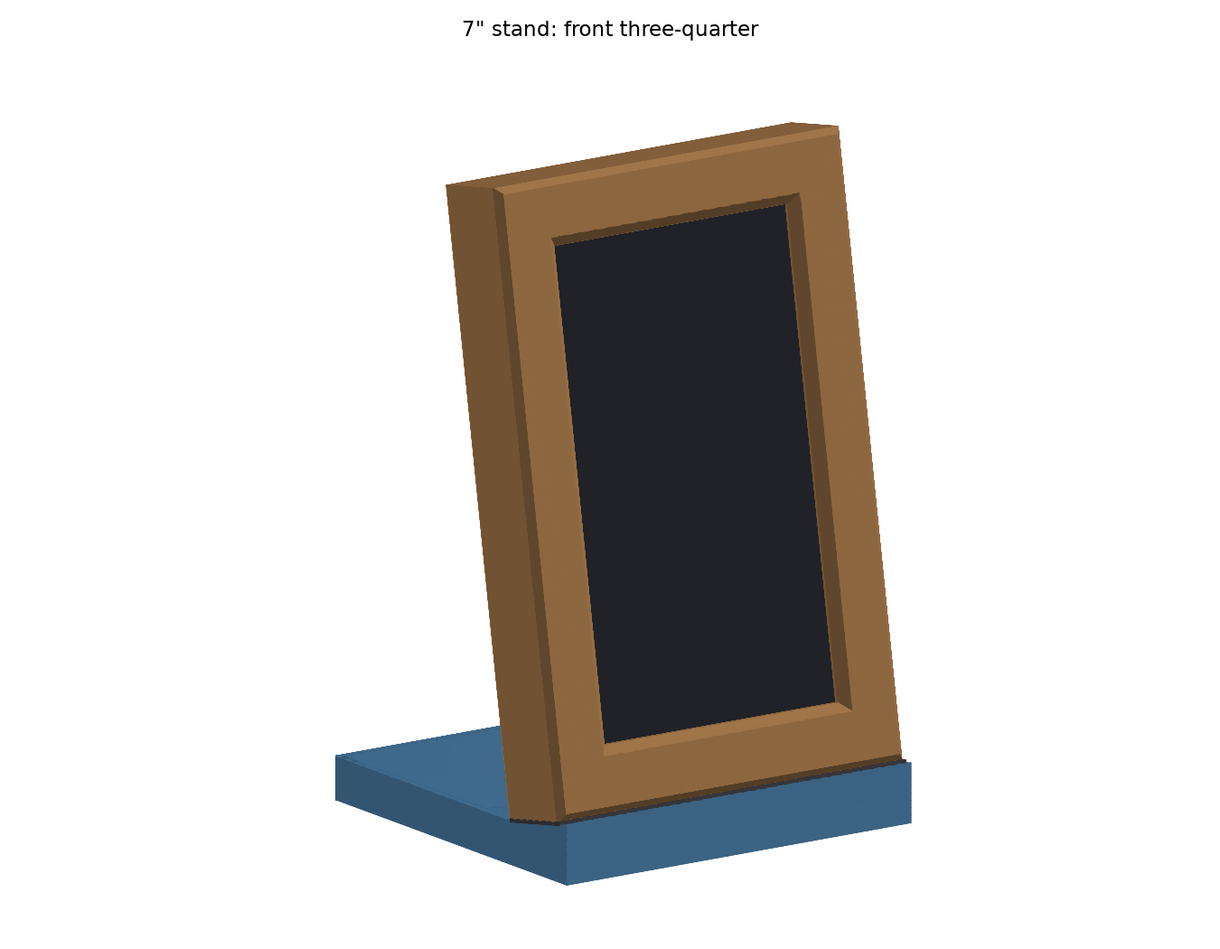
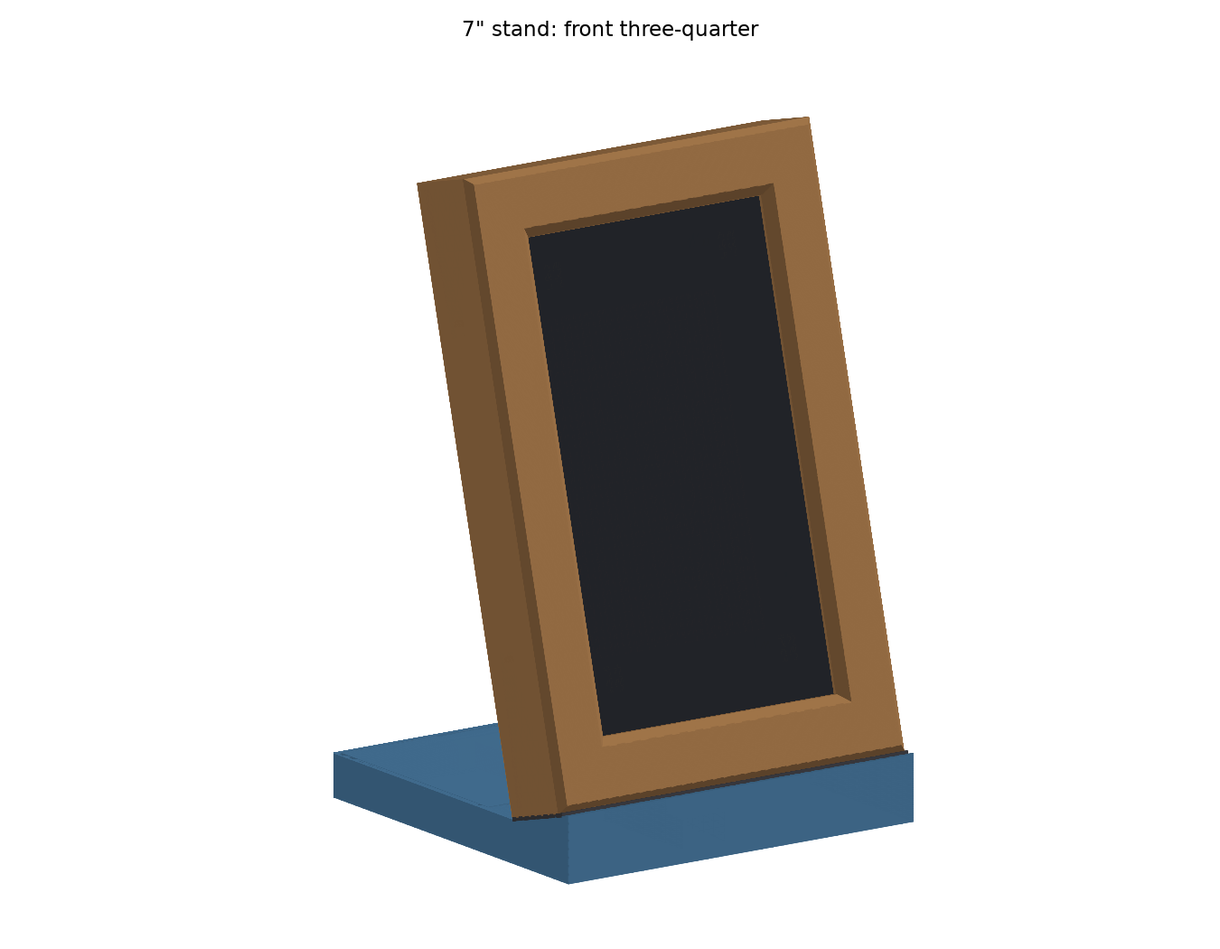
feat: COM-417 espframe stand: wider plug path, click-in lid, 15° lean
- Widen the foot's cable tunnel 12 -> 16 mm (new TUNNEL_W; it was narrower than the 12.5 mm plug), plus the deck slot, plate notch and frame notch by 2 mm, with a plug pass-through check
- Add printed lid detents (LID_DETENT_H/N/L) that click into V-grooves in the rabbet walls, with a detent fit check
- Lean the screen at 15 deg (was 10) on a 20 mm ledge and 120 mm foot; MIN_TIP_FORCE_N 4.3 as accepted for the shorter foot
- Update the README, 10-inch notes and preview renders

diff --git a/apps/espframe/hardware/stand/stand/params.py b/apps/espframe/hardware/stand/stand/params.py
@@ -102,15 +102,17 @@ DOVE_TIP_CLEAR = 0.4              # DESIGN: rail tip to groove floor; the groove
 DOVE_GROOVE_L = SPINE_TOP_Y - 2.0  # DESIGN: open at the bottom edge, closed by 2 mm of spine at the top (a groove past the spine cut through the 3 mm plate)
 DOVE_RAIL_L = DOVE_GROOVE_L - 2.0   # DESIGN: 2 mm short of the groove end
 LOCK_Y = 18.0                     # DESIGN: optional foot-lock screw height
-PLATE_NOTCH = (14.0, 6.0)         # DESIGN: cable notch in the plate bottom edge above the plug bend (w, h)
+PLATE_NOTCH = (16.0, 6.0)         # DESIGN: cable notch in the plate bottom edge above the plug bend (w, h); 14 felt tight (COM-417)
 
 # --- Foot (world frame) -------------------------------------------------------------
-TILT_DEG = 10.0                   # DESIGN
+TILT_DEG = 15.0                   # DESIGN (COM-417): a desktop picture frame's usual lean; was 10
 S = math.sin(math.radians(TILT_DEG))
 C = math.cos(math.radians(TILT_DEG))
-LEDGE_H = 18.0                    # DESIGN: ledge seat height at the frame's front face (world Z)
+LEDGE_H = 20.0                    # DESIGN: ledge seat height at the frame's front face (world Z); 18 at 10°, raised
+                                  #   with the 15° lean so the deck (and lid) stays clear of the cable coil
 FOOT_W = 130.0                    # DESIGN
-FOOT_D = 118.0                    # DESIGN: glass corner to rear wall; shortest that still meets MIN_TIP_FORCE_N without extra ballast
+FOOT_D = 120.0                    # DESIGN (user, COM-417): glass corner to rear wall; kept short at 15° and accepted
+                                  #   with a lower MIN_TIP_FORCE_N rather than deepened (about 126 would hold 4.5 N)
 WALL = 3.0                        # DESIGN
 FLOOR = 3.0                       # DESIGN
 DECK_SKIN = 1.5                   # DESIGN: material over the cavity behind the plate
@@ -126,6 +128,13 @@ LOCK_POST_LEFT = 2.0              # DESIGN: post material under the counterbore
 LID_T = 1.6                       # DESIGN
 LID_RABBET = 1.5                  # DESIGN: step in the tray wall the lid sits on
 LID_CLEAR = 0.15                  # DESIGN: per side
+# Detents: short ridges on the lid's long (front and rear) edges click into V-grooves in the
+# rabbet walls; the thin rear wall flexes for the snap. Prise the lid out at the lift slot.
+LID_DETENT_H = 0.3                # DESIGN: ridge height off the lid edge (snap interference = H - LID_CLEAR); tune after printing
+LID_DETENT_N = 2                  # DESIGN: ridges per long edge
+LID_DETENT_L = 8.0                # DESIGN: ridge length along the edge
+LID_DETENT_GROOVE_CLEAR = 0.1     # DESIGN: groove oversize so a seated ridge doesn't bind
+MIN_DETENT_WALL = 1.0             # DESIGN: check limit, rear wall left behind a groove
 
 # Solid front under the ledge (no ballast: the user's printed stand is sturdy without it);
 # the cable tunnel runs through it to the tray.
@@ -140,7 +149,9 @@ PLUG_T = 6.5                      # EST
 CABLE_LEN = 300.0                 # SOURCED
 CABLE_D = 4.5                     # EST
 BEND_R = 4 * CABLE_D              # 18, EST: static minimum (4 × D)
-SLOT_W = 14.0                     # DESIGN: plug must pass through when assembling
+SLOT_W = 16.0                     # DESIGN: plug must pass through when assembling; 14 felt tight (COM-417)
+TUNNEL_W = 16.0                   # DESIGN: cable tunnel from the tray to the deck slot; the plug passes it too (was 12, under PLUG_W)
+MIN_PLUG_PASS = 1.0               # DESIGN: check limit, plug clearance per side through the tunnel and deck slot
 SLOT_T = (PORT_DEPTH - 4.0, PORT_DEPTH + 4 * CABLE_D + CABLE_D / 2 + 1.5)   # DESIGN: covers the whole plug bend through the deck
 COIL_W = 32.0                     # DESIGN: free cable coil in the tray, stadium (centreline R 18.25 ≥ BEND_R); no post
 COIL_Y = 62.0                     # DESIGN: coil centre (horizontal depth)
@@ -169,7 +180,9 @@ RECEPTACLE_TRIAL_T = [1.0, 1.2, 1.4]   # DESIGN: test plates bracketing JACK_REC
 DOVE_TRIAL_CLEARS = [0.02, 0.03, 0.04]                    # DESIGN: round 3, brackets SLIDE_CLEAR (round 2: 0.05 closest, a touch loose)
 
 # Required results.
-MIN_TIP_FORCE_N = 4.5             # MEASURED (user): the printed stand felt sturdy without ballast; was 6.5 with steel (rev A design: 3.2)
+MIN_TIP_FORCE_N = 4.3             # DESIGN (user, COM-417): accepted for the 15° lean on the 120 mm foot (4.32 N), in exchange
+                                  #   for a shorter foot. The 10° stand, 118 deep, was 4.5 N and the printed one felt very stable
+                                  #   without ballast; was 6.5 with steel (rev A design: 3.2)
 
 # --- Picture frame (style B, classic bevel, 21 mm face, wood-look) -------------------
 FRAME_DENSITY = 1.18e-3           # g/mm³, EST: wood-fill PLA (1.15–1.2); PolyWood is lighter
@@ -206,6 +219,6 @@ FRAME_BOSS_D = 7.0                # DESIGN
 FRAME_BOSS_L = 8.0                # DESIGN: boss length towards the glass from the plate front face
 FRAME_INSERT_DEPTH = INSERT_M3x4_L + 2.0   # DESIGN: M3 × 8 through a 3 mm tab reaches 5
 FRAME_SCREW_L = 8.0               # DESIGN
-FRAME_NOTCH_W = 15.0              # DESIGN: cable notch through the frame's bottom rail
+FRAME_NOTCH_W = 17.0              # DESIGN: cable notch through the frame's bottom rail; 15 felt tight (COM-417)
 
 MIN_DOVE_ENGAGE = 30.0            # DESIGN: check limit

diff --git a/apps/espframe/hardware/stand/stand/checks.py b/apps/espframe/hardware/stand/stand/checks.py
@@ -7,7 +7,7 @@ from build123d import Vertex
 from . import params as p
 from . import reference as ref
 from .cable import build_path
-from .foot import build_rail
+from .foot import build_rail, layout, lid_detents, lift_slot_x
 from .frames import SCREEN_TO_WORLD, screen_point
 
 
@@ -90,7 +90,34 @@ def run(parts: dict) -> list:
               + f"; CG {cg_y:.1f} mm behind the glass corner, {cg_z:.1f} mm up; sideways tip at {side:.0f}°")
     add("Tip-over push at screen centre", force >= p.MIN_TIP_FORCE_N, detail)
 
-    # 8. Jack: flange against the web, receptacle through the window and flush outside,
+    # 8. Plug passes the tunnel and deck slot during assembly (pushed forward from the tray, then up).
+    L = layout()
+    t_side = (p.TUNNEL_W - p.PLUG_W) / 2
+    s_side = (p.SLOT_W - p.PLUG_W) / 2
+    t_head = (L.z_cavity_top - p.FLOOR) - p.PLUG_T
+    add("Plug passes the tunnel and deck slot",
+        min(t_side, s_side) >= p.MIN_PLUG_PASS and t_head >= 2 * p.MIN_PLUG_PASS,
+        f"{p.PLUG_W:g} × {p.PLUG_T:g} plug: {t_side:.2f} mm per side in the {p.TUNNEL_W:g} mm tunnel, "
+        f"{s_side:.2f} in the {p.SLOT_W:g} mm slot (need ≥ {p.MIN_PLUG_PASS:g}); {t_head:.1f} mm of tunnel height to spare")
+
+    # 9. Lid detents: seated ridges sit in their grooves, the snap has interference, the grooves
+    # leave enough rear wall, and no ridge runs into the lift slot. The front rim is the solid
+    # front zone, so only the rear wall flexes: hooked in front edge first, it flexes by `snap`;
+    # pressed in flat, the lid slides back off the front ridges and the rear wall takes both.
+    snap = p.LID_DETENT_H - p.LID_CLEAR
+    groove = p.LID_DETENT_H + p.LID_DETENT_GROOVE_CLEAR - p.LID_CLEAR
+    wall_left = p.WALL - p.LID_RABBET - groove
+    sx0, sx1 = lift_slot_x()
+    ridges = lid_detents()
+    slot_free = all(b <= sx0 or a >= sx1 for a, b, _, out in ridges if out < 0)
+    l_over = (lid & foot).volume
+    add("Lid detents", l_over < 1e-3 and snap > 0 and wall_left >= p.MIN_DETENT_WALL and slot_free,
+        f"{len(ridges)} ridges {p.LID_DETENT_H:g} mm high snap past {snap:.2f} mm of interference into "
+        f"{groove:.2f} mm grooves (rear wall flexes {snap:.2f} mm with the front edge hooked in first, "
+        f"{2 * snap:.2f} pressed in flat); {wall_left:.2f} mm of rear wall behind them (need ≥ {p.MIN_DETENT_WALL:g}); "
+        f"seated overlap {l_over:.4f} mm³; lift slot {'clear' if slot_free else 'BLOCKED'}")
+
+    # 10. Jack: flange against the web, receptacle through the window and flush outside,
     # its own screws from outside clear of the body.
     jack = ref.jack()
     j_over = (jack & foot).volume
@@ -109,7 +136,7 @@ def run(parts: dict) -> list:
         f"screws at {p.JACK_SCREW_PITCH:g} mm pitch pass {body_gap:.2f} mm clear of the body; the heads leave "
         f"{heads_gap:.1f} mm between them, so a plug moulding wider than that won't seat fully (test your chargers)")
 
-    # 9. Foot-lock screw (optional, M3 × 12) reaches the M3 × 4 insert in the plate spine.
+    # 11. Foot-lock screw (optional, M3 × 12) reaches the M3 × 4 insert in the plate spine.
     to_floor = p.LOCK_POST_LEFT + p.DOVE_DEPTH + p.POST_FACE_CLEAR
     spine_left = (p.D_PLATE_BACK - p.DOVE_DEPTH) - (p.D_PLATE_FRONT - p.SPINE_T)
     lock_engage = 12.0 - to_floor
@@ -117,7 +144,7 @@ def run(parts: dict) -> list:
         f"M3 × 12 from the counterbore: {lock_engage:.1f} mm past the groove floor into a {p.INSERT_M3x4_L:.0f} mm insert "
         f"(tip {lock_engage - spine_left:.1f} mm proud of the spine, clear of the board)")
 
-    # 10. Picture frame.
+    # 12. Picture frame.
     panel = ref.panel()
     aa = ref.active_area_prism()
     reveal = min(p.AA_X[0] - p.OPEN_X[0], p.OPEN_X[1] - p.AA_X[1], p.AA_Y[0] - p.OPEN_Y[0], p.OPEN_Y[1] - p.AA_Y[1])
@@ -162,7 +189,7 @@ def run(parts: dict) -> list:
     add("Dovetail engagement", engage >= p.MIN_DOVE_ENGAGE,
         f"{engage:.1f} mm of the {p.DOVE_RAIL_L:.0f} mm rail inside the groove (need ≥ {p.MIN_DOVE_ENGAGE:.0f})")
 
-    # 11. Every printed part fits the P1S bed in its print pose.
+    # 13. Every printed part fits the P1S bed in its print pose.
     for name, solid in parts["print"].items():
         bb = solid.bounding_box()
         size = (bb.max - bb.min)

diff --git a/apps/espframe/hardware/stand/stand/foot.py b/apps/espframe/hardware/stand/stand/foot.py
@@ -1,5 +1,5 @@
 """Foot: felted ledge, dovetail post, cable tunnel and open tray for a free cable coil,
-a solid front, the panel jack behind a thin web in the rear wall, and the tray lid."""
+a solid front, the panel jack behind a thin web in the rear wall, and the click-in tray lid."""
 
 from dataclasses import dataclass
 
@@ -61,9 +61,13 @@ def build_foot() -> Part:
     rabbet = box(L.in_x0 - p.LID_RABBET, L.in_x1 + p.LID_RABBET, L.front_zone_end - p.LID_RABBET,
                  p.FOOT_D - p.WALL + p.LID_RABBET, L.z_cavity_top, L.z_deck + 1)
     foot -= tray + rabbet
+    # V-grooves in the rabbet's front and rear walls for the lid's detent ridges.
+    for x0, x1, y_edge, out in lid_detents():
+        g = p.LID_DETENT_GROOVE_CLEAR
+        foot -= _detent_prism(x0 - g, x1 + g, y_edge, out, p.LID_DETENT_H + g)
 
     # Cable tunnel under the wedge, from the deck slot back into the tray.
-    foot -= box(p.PORT_X - 6, p.PORT_X + 6, L.y_front + p.WALL + 2, L.front_zone_end + 1,
+    foot -= box(p.PORT_X - p.TUNNEL_W / 2, p.PORT_X + p.TUNNEL_W / 2, L.y_front + p.WALL + 2, L.front_zone_end + 1,
                 p.FLOOR, L.z_cavity_top)
 
     # Deck slot through the ledge, big enough for the plug to pass during assembly,
@@ -118,15 +122,51 @@ def build_rail(clear: float = p.SLIDE_CLEAR) -> Part:
                           d_root, d_tip, -p.SEAT, p.DOVE_RAIL_L - p.SEAT)
 
 
-def build_lid() -> Part:
-    """Flat lid for the tray opening. Printed flat."""
+def lid_outline():
+    """(x0, x1, y0, y1) of the lid, LID_CLEAR inside the rabbet on every side."""
     L = layout()
     c = p.LID_CLEAR
-    lid = box(L.in_x0 - p.LID_RABBET + c, L.in_x1 + p.LID_RABBET - c,
-              L.front_zone_end - p.LID_RABBET + c, p.FOOT_D - p.WALL + p.LID_RABBET - c,
-              L.z_cavity_top, L.z_deck)
+    return (L.in_x0 - p.LID_RABBET + c, L.in_x1 + p.LID_RABBET - c,
+            L.front_zone_end - p.LID_RABBET + c, p.FOOT_D - p.WALL + p.LID_RABBET - c)
+
+
+def lift_slot_x():
+    """(x0, x1) of the lid's lift slot, at its front-right corner."""
+    L = layout()
+    return L.in_x1 - 14, L.in_x1 - 4
+
+
+def lid_detents():
+    """(x0, x1, y_edge, out) per detent ridge: LID_DETENT_N evenly spaced along each long
+    (front and rear) lid edge; `out` is +1 where the ridge points to +Y, -1 to -Y."""
+    x0, x1, y0, y1 = lid_outline()
+    pitch = (x1 - x0) / p.LID_DETENT_N
+    spans = [(x0 + (i + 0.5) * pitch - p.LID_DETENT_L / 2, x0 + (i + 0.5) * pitch + p.LID_DETENT_L / 2)
+             for i in range(p.LID_DETENT_N)]
+    return [(a, b, y, out) for y, out in ((y0, -1), (y1, 1)) for a, b in spans]
+
+
+def _detent_prism(x0, x1, y_edge, out, h):
+    """Triangular ridge across X: base on the lid edge over the lid's full thickness, apex h out.
+    The shallow flanks ramp the snap in and out, and print without supports."""
+    L = layout()
+    zm, half = (L.z_cavity_top + L.z_deck) / 2, p.LID_T / 2
+    base = y_edge - out * 0.01
+    pts = [(base, zm - half), (y_edge + out * h, zm), (base, zm + half)]
+    # side_profile extrudes along the face normal, so keep the winding anticlockwise (+X).
+    return side_profile(pts if out > 0 else pts[::-1], x0, x1)
+
+
+def build_lid() -> Part:
+    """Flat lid for the tray opening, with detent ridges on its long edges. Printed flat."""
+    L = layout()
+    x0, x1, y0, y1 = lid_outline()
+    lid = box(x0, x1, y0, y1, L.z_cavity_top, L.z_deck)
+    for a, b, y_edge, out in lid_detents():
+        lid += _detent_prism(a, b, y_edge, out, p.LID_DETENT_H)
     # Lift slot so it can be prised out.
-    lid -= box(L.in_x1 - 14, L.in_x1 - 4, L.front_zone_end + 1, L.front_zone_end + 5, L.z_cavity_top - 1, L.z_deck + 1)
+    sx0, sx1 = lift_slot_x()
+    lid -= box(sx0, sx1, L.front_zone_end + 1, L.front_zone_end + 5, L.z_cavity_top - 1, L.z_deck + 1)
     return lid
 
 

diff --git a/apps/espframe/hardware/stand/README.md b/apps/espframe/hardware/stand/README.md
@@ -19,14 +19,22 @@ A 3D-printable portrait desk stand for the 7" espframe (Waveshare ESP32-S3-Touch
   - Four printed risers (Ø9 × 4.5) sit on the spacers, lifting the plate to 14.5 mm above the panel back. That clears the tallest part, the 12 mm UART2 JST, by 2 mm (designed to 12.5).
   - It fills the frame out to its walls (0.3 mm clear), so the back is closed all round, and carries the frame on four screws near its side edges.
   - Two rows of vent slots low down and two near the top (4 slots of 20 × 3 mm each) let air through, since the back is otherwise closed.
-- **Foot (PETG).** The plate slides down onto a dovetail rail on the foot's post, and the frame's bottom rail settles on the felted ledge (18 mm high). The screen leans back at 10°.
-  - No ballast: the printed stand was sturdy without it, and the front under the ledge is solid. The foot is 118 mm deep.
-  - The tray is open on top and closed with a drop-in lid.
+- **Foot (PETG).** The plate slides down onto a dovetail rail on the foot's post, and the frame's bottom rail settles on the felted ledge (20 mm high). The screen leans back at 15°, like a desktop picture frame (10° before COM-417).
+  - No ballast: the printed stand was sturdy without it, and the front under the ledge is solid. The foot is 120 mm deep.
+  - The tray is open on top and closed with a lid that clicks in: two small ridges on each long edge snap into grooves in the tray's rim. Prise it out at the slot in its front-right corner.
 - **Power and data.** A Poyiccot USB 3.1 panel-mount extension (straight, 30 cm) passes every pin through:
   - Its plug goes into the board's UART (CH343) USB-C port.
   - The lead drops through notches in the plate and frame and through the deck slot, bends at R18, lies as one loose coil in the tray, and ends at the panel jack in the rear wall.
   - Any USB-C charger works, and you can flash or read logs through the stand without taking it apart.
 - **Orientation.** The board's USB edge goes down: the landscape panel turned 90° counter-clockwise, seen from the front. Pick the matching rotation in the espframe settings (COM-362).
+
+## Changes in COM-417
+
+- **15° lean** (was 10°). The ledge is 2 mm higher (20 mm) so the deck and lid stay clear of the cable coil, and the foot is 120 mm deep (was 118).
+- **Wider plug path.** The cable tunnel through the foot was 12 mm wide, narrower than the 12.5 mm plug. The tunnel and the deck slot are now 16 mm wide, and the cable notches in the plate and frame are 16 and 17 mm.
+- **The lid clicks in** on printed detents instead of just resting in its rabbet.
+
+**What to reprint:** the foot and lid. The plate and frame only gained wider cable notches (+2 mm), so reprinting them is optional: keep yours if the lead already drops through them easily.
 
 ## Download the print files
 
@@ -60,10 +68,12 @@ Every dimension is a named constant in [`stand/params.py`](stand/params.py), tag
 | Dovetail engagement | 31.8 mm of the 35.5 mm rail (need ≥ 30; the frame raises the screen 3.7 mm above the ledge) |
 | Plug clear of the plate, frame and foot | no overlap |
 | Cable bend radius | tightest 18.0 mm (limit R18, est.) |
-| Cable length | 265 mm path of 300 mm (35 mm slack) |
+| Cable length | 267 mm path of 300 mm (33 mm slack) |
 | Cable clearance along its length | ≥ cable radius everywhere |
-| Plug bend fits above the tray floor | 5.6 mm of straight drop to spare (rev D without the frame had 1.9) |
-| Tip-over: push at the screen centre to tip it back | **4.5 N** (need ≥ 4.5, set from the printed stand feeling sturdy without ballast; rev A design was 3.2 N) at 118 mm deep. Sideways tip at 34°. Weight stuck under the front raises it (about +0.8 N per 100 g). |
+| Plug bend fits above the tray floor | 4.9 mm of straight drop to spare (rev D without the frame had 1.9) |
+| Plug passes the tunnel and deck slot | 12.5 × 6.5 plug: 1.75 mm per side in the 16 mm tunnel and the 16 mm slot (need ≥ 1), 3.0 mm of tunnel height to spare |
+| Lid detents | 4 ridges 0.3 mm high snap past 0.15 mm of interference into 0.25 mm grooves, leaving 1.25 mm of rear wall. Only the rear wall flexes: 0.15 mm with the front edge hooked in first, 0.30 if the lid is pressed in flat; no overlap once seated; lift slot clear |
+| Tip-over: push at the screen centre to tip it back | **4.3 N** (need ≥ 4.3) at 15° and 120 mm deep, accepted in exchange for a shorter foot when the lean went to 15°. The 10° stand, 118 mm deep, was 4.5 N, and that print felt sturdy without ballast; rev A design was 3.2 N. A foot about 126 mm deep would hold 4.5 N at 15°. Sideways tip at 34°. Weight stuck under the front raises it (about +0.8 N per 100 g). |
 | Frame opening clear of the picture | 0.75 mm reveal on every side (need ≥ 0.5) |
 | Frame never touches the glass | closest 0.71 mm (need ≥ 0.5) |
 | Glass edge gap L / R / T / B | 8.75 / 6.71 / 0.71 / 0.71 mm |
@@ -90,7 +100,7 @@ Structural parts are PETG on the stock Bambu P1S profile with the 0.4 mm nozzle.
 | `coupon-receptacle` | Flat as exported | 100% infill, 0.2 mm layers. Three thin plates (1–3 notches = 1.0 / 1.2 / 1.4 mm), each a copy of the rear-wall web: receptacle window and two holes at the measured 16.5 mm flange pitch. Screw one onto the flange with the jack's own screws: the screws threading straight in confirms the pitch, and the plate the metal receptacle ends flush with sets `JACK_RECEPTACLE_PROUD` (plate 2, 1.2 mm). Plug your chargers into it to check the screw heads don't stop them seating. |
 | `plate` | As exported: back face on the bed, risers and spine up. The dovetail groove's undercut faces the bed and prints without supports. | 4 walls, 40% infill (the risers end up solid), 0.2 mm layers |
 | `foot` | As exported: upright on its base | 4 walls, 25% infill, no supports. |
-| `lid` | Flat | 3 walls |
+| `lid` | Flat | 3 walls. If the detents are too stiff or too loose, tune `LID_DETENT_H` (0.3 mm). |
 | `frame` | As exported: face down on the bed, walls and bosses up. The bevel and outer chamfer are 45° overhangs: no supports. | Wood-look PLA, 3 walls, 20% infill. See the wood-look notes. |
 
 ### Wood-look frame
@@ -127,12 +137,12 @@ No heat-set kit? Buy an M3 assortment. Inserts go in with a soldering iron, pres
    - If you're using the foot lock, one M3 × 4 insert goes into the plate spine from the groove floor.
 2. **Felt.** Stick the 6 mm felt strip on the back of the frame face, on the band that covers the black bezel. Keep its inner edge at least 1 mm outside the opening (`FELT_INSET`) so it stays hidden at an angle. Stick the wide strip on the foot's ledge.
 3. **Jack.** With the lid off, set the jack inside the tray against the rear wall, receptacle outwards, so the flange drops into its recess and the receptacle pokes through the window. Fit the jack's own two screws from outside through the wall into the flange's threaded holes.
-4. **Cable.** Lay the spare cable as one loose coil in the tray beside the jack, no tighter than about 40 mm across. Then run it forward through the tunnel and push the plug up through the deck slot (14 × 8 mm; the 12.5 × 6.5 plug fits through).
+4. **Cable.** Lay the spare cable as one loose coil in the tray beside the jack, no tighter than about 40 mm across. Then run it forward through the tunnel and push the plug up through the deck slot. Both are 16 mm wide, so the 12.5 × 6.5 plug passes with 1.75 mm each side.
 5. **Plate.** Screw the plate to the four brass spacers with M3 × 12 + washers. The spine and dovetail groove go to the bottom, near the USB edge.
 6. **Frame.** Lay the screen face down on a soft cloth and lower the frame over it. Fix it with four M3 × 8 + washers from behind, through the plate's edge holes into the frame inserts. Check the even border, and that the felt only rests on the black bezel.
 7. **Plug and mount.** Plug the straight plug into the board's UART USB-C. Lower the plate's groove onto the foot's rail and let it slide down until the frame's bottom rail sits on the felted ledge. The plug's lead runs down through the notches in the plate and frame and into the deck slot.
    - Optionally, fit the foot-lock M3 × 12 from the back of the post.
-   - Drop the lid in.
+   - Fit the lid front edge first, so its front ridges drop into their grooves, then press the rear edge down until it clicks. Only the thin rear wall flexes, and a lid pressed in flat makes it flex twice as far.
 8. **Rotation.** In the espframe settings, pick the rotation (90 or 270) that shows the picture upright.
 
 ## Open items
@@ -141,7 +151,7 @@ These are estimated until the parts arrive. Each is a parameter in `stand/params
 
 - **Poyiccot jack:** measured and confirmed on test prints (flange 25 × 8 × 6.5, threaded M3 holes 16.5 apart, body 12.5 × 8, 34.5 long, receptacle 1.2 mm proud). Still to check: your chargers seat fully between the screw heads.
 - **Plug length:** confirm the 35 mm includes the 7.5 mm tip, so 27.5 mm sticks out.
-- **Cable:** confirm the diameter (4.5) and that it takes an R18 bend without levering on the board's port. There's 5.6 mm of drop to spare under the plug.
+- **Cable:** confirm the diameter (4.5) and that it takes an R18 bend without levering on the board's port. There's 4.9 mm of drop to spare under the plug.
 - **UART port:** confirm which of the two USB-C ports is the UART (CH343) one, and that the pair is on the left edge seen from the front.
 - **Weights:** weigh the printed parts, update `PRINT_FILL` / `FRAME_FILL`, and re-run to refresh the tip-over number.
 - **Frame fit:** print the frame and check that the border looks even on your panel. Tune `REVEAL` and `FRAME_FACE_W` if needed.

diff --git a/apps/espframe/hardware/stand/docs/10-inch.md b/apps/espframe/hardware/stand/docs/10-inch.md
@@ -105,10 +105,10 @@ The 7" was printed and tested piece by piece; its README has the details. These 
 **Design choices that proved out.**
 - **The back-plate fills the frame** out to its inner walls (0.3 mm clear). The back is closed with no gap round the plate, and the frame screws go through the plate's edges into bosses on the frame walls instead of through tabs.
 - **Vent slots:** with a closed back, there are two rows low (air in) and two high (air out), kept clear of the risers, spine and screws. On the 10", also keep them clear of the antenna region.
-- **No steel ballast:** the printed 7" was sturdy without it, so the pockets were dropped. The tip-over check now uses a **4.5 N** target (horizontal push at the screen centre) taken from that hands-on test.
+- **No steel ballast:** the printed 7" was sturdy without it, so the pockets were dropped. The tip-over check now uses a **4.5 N** target (horizontal push at the screen centre) taken from that hands-on test. COM-417 then moved the 7" to a 15° lean on a 120 mm foot and accepted 4.3 N for it.
   - Method: model each part's volume × density × fill, find the centre of mass, and check the push needed to tip it about the foot's rear edge. Then **hand-test the printed stand** and set the target from that.
-  - The model reads 4.6 N for the final 7".
-- **Shorter foot:** the 7" went from 128 to 118 mm deep. The spool post was replaced by a loose cable coil in the tray.
+  - The model read 4.5 N for the 10° 7" on its 118 mm foot, and reads 4.32 N at 15° on 120 mm (COM-417).
+- **Shorter foot:** the 7" went from 128 to 118 mm deep, then 120 with the 15° lean (COM-417). The spool post was replaced by a loose cable coil in the tray.
 - **Single dovetail:** two parallel sliding fits at 0.02 mm would bind. One locates itself, and the frame's bottom rail resting on the felted ledge takes the weight and stops it rocking.
 
 **Bugs to avoid.**
@@ -125,7 +125,7 @@ The 7" was printed and tested piece by piece; its README has the details. These 
   - fits: `SLIDE_CLEAR`, `DOVE_*` profile, `DOVE_TIP_CLEAR`, `POST_FACE_CLEAR`, `INSERT_*`, `M3_CLEAR_D`
   - jack: all `JACK_*` except `JACK_X`
   - plug and cable: `PLUG_*`, `CABLE_*`, `BEND_R`
-  - foot and lid: `WALL`, `FLOOR`, `LID_*`, `TILT_DEG` (10°)
+  - foot and lid: `WALL`, `FLOOR`, `LID_*` (incl. the `LID_DETENT_*` click-in fit), `TUNNEL_W`, `SLOT_W`, `TILT_DEG` (15° since COM-417)
   - plate: `PLATE_T`, `PLATE_EDGE_CLEAR`, `PLATE_R`
   - frame profile: `FRAME_FACE_T`, `FRAME_BEVEL`, `FRAME_OUTER_CH`, `FRAME_WALL`, `FELT_*`, `REVEAL`
   - vents: `VENT_SLOT`, `VENT_PITCH_X`
